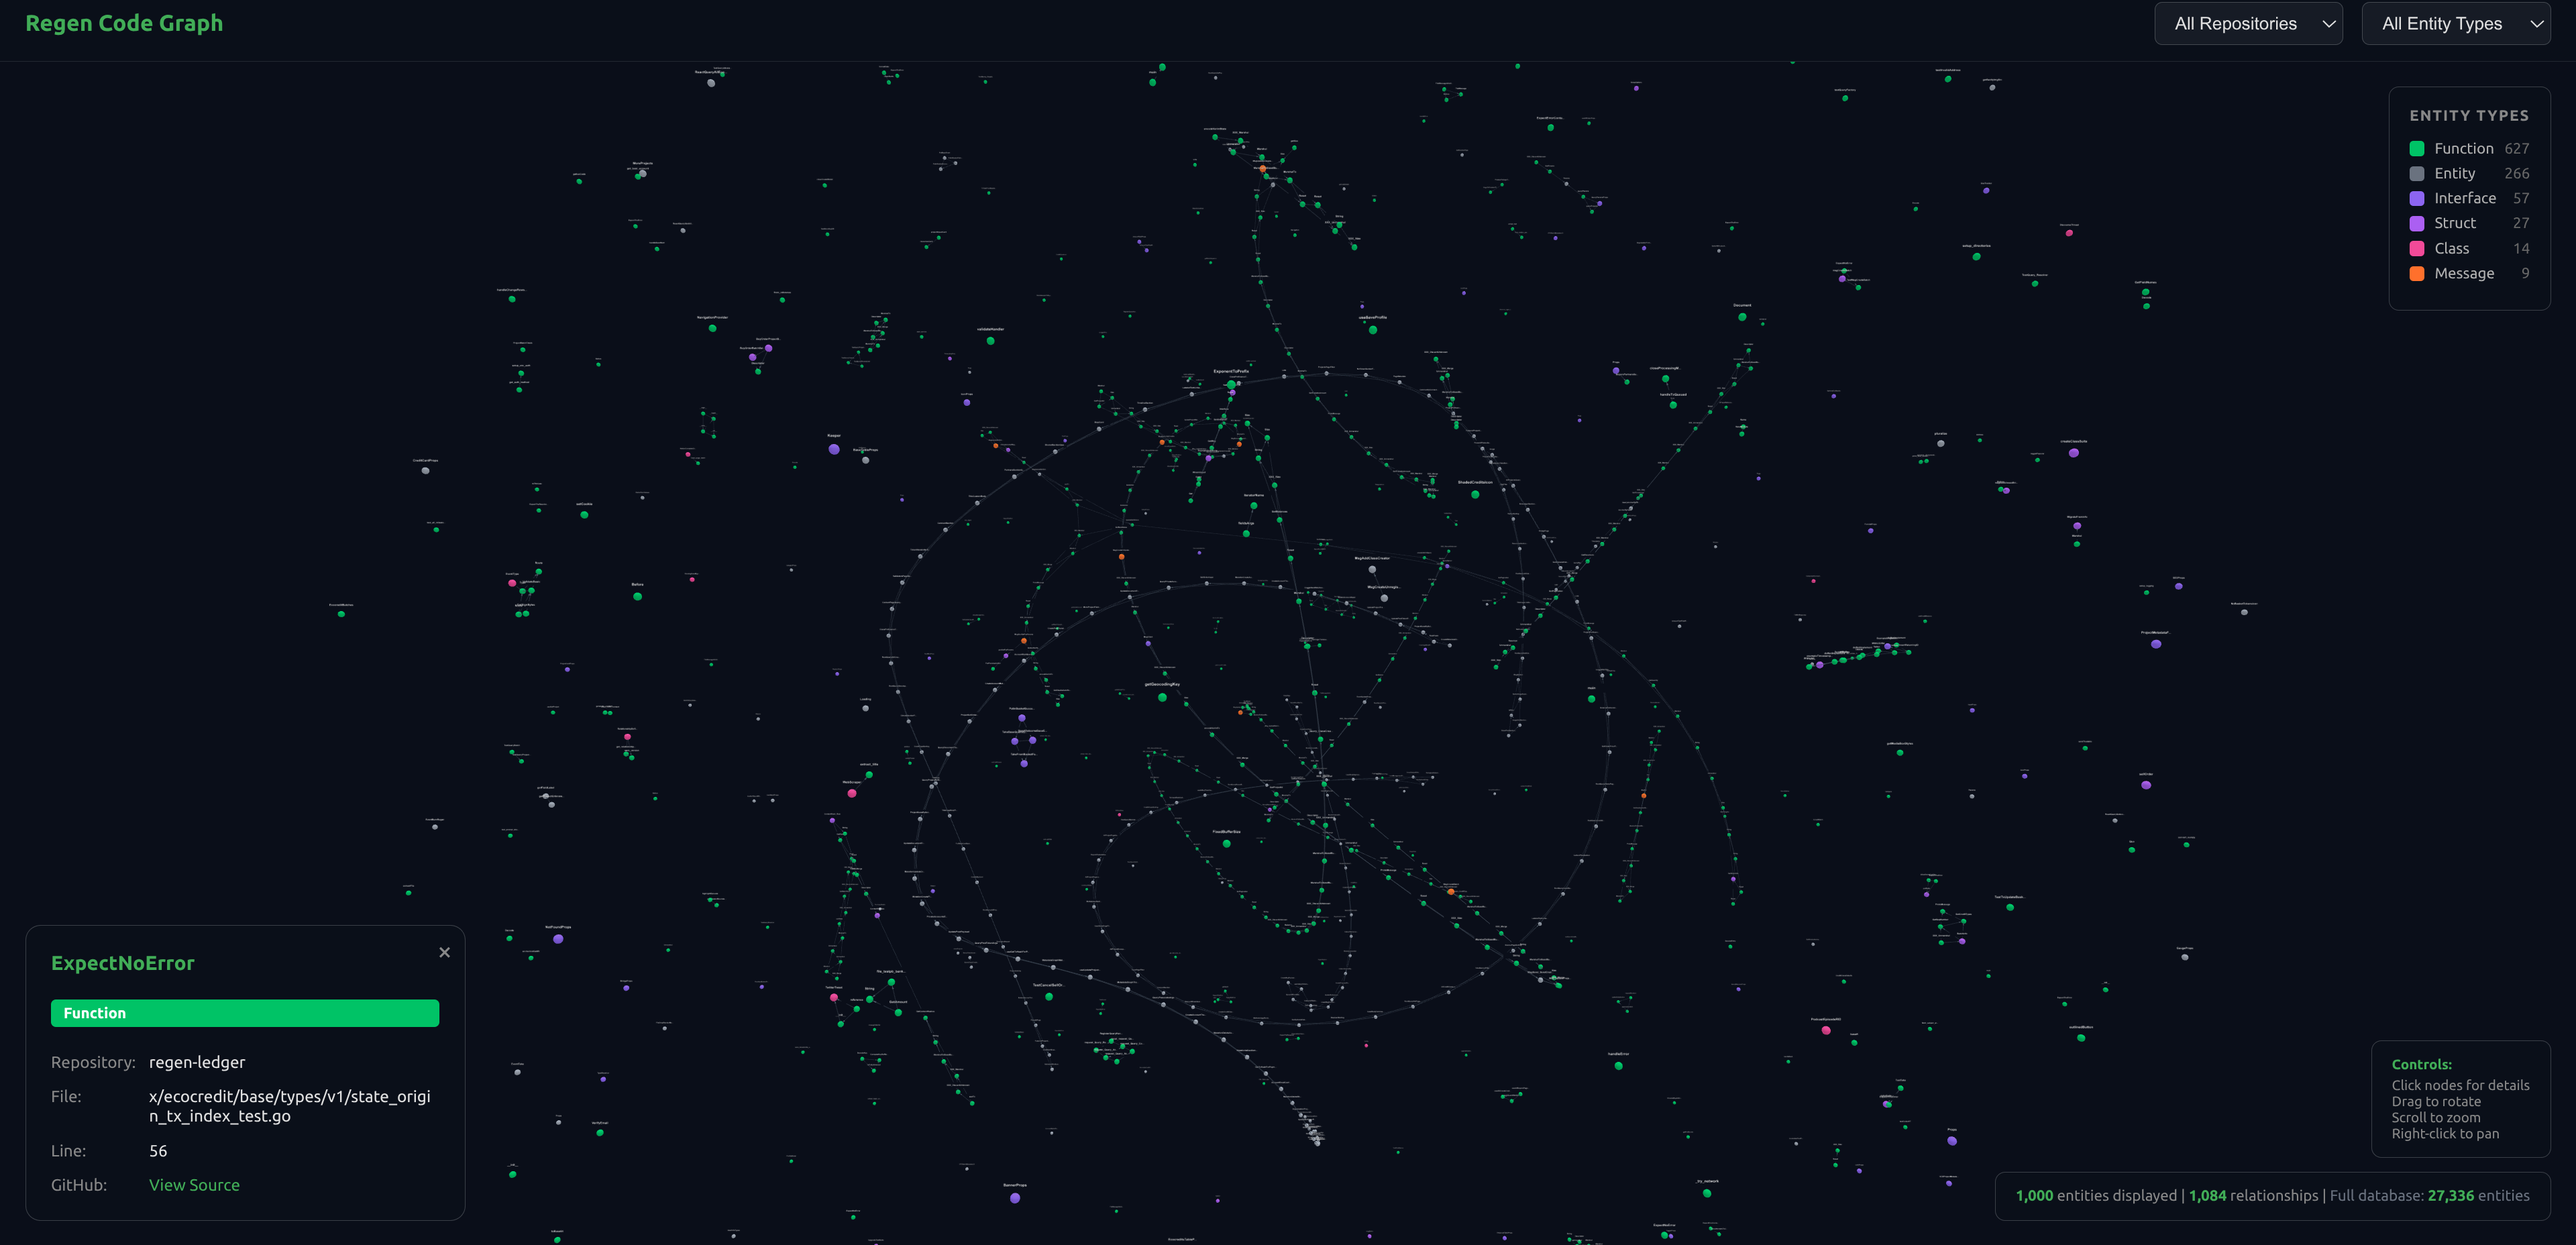
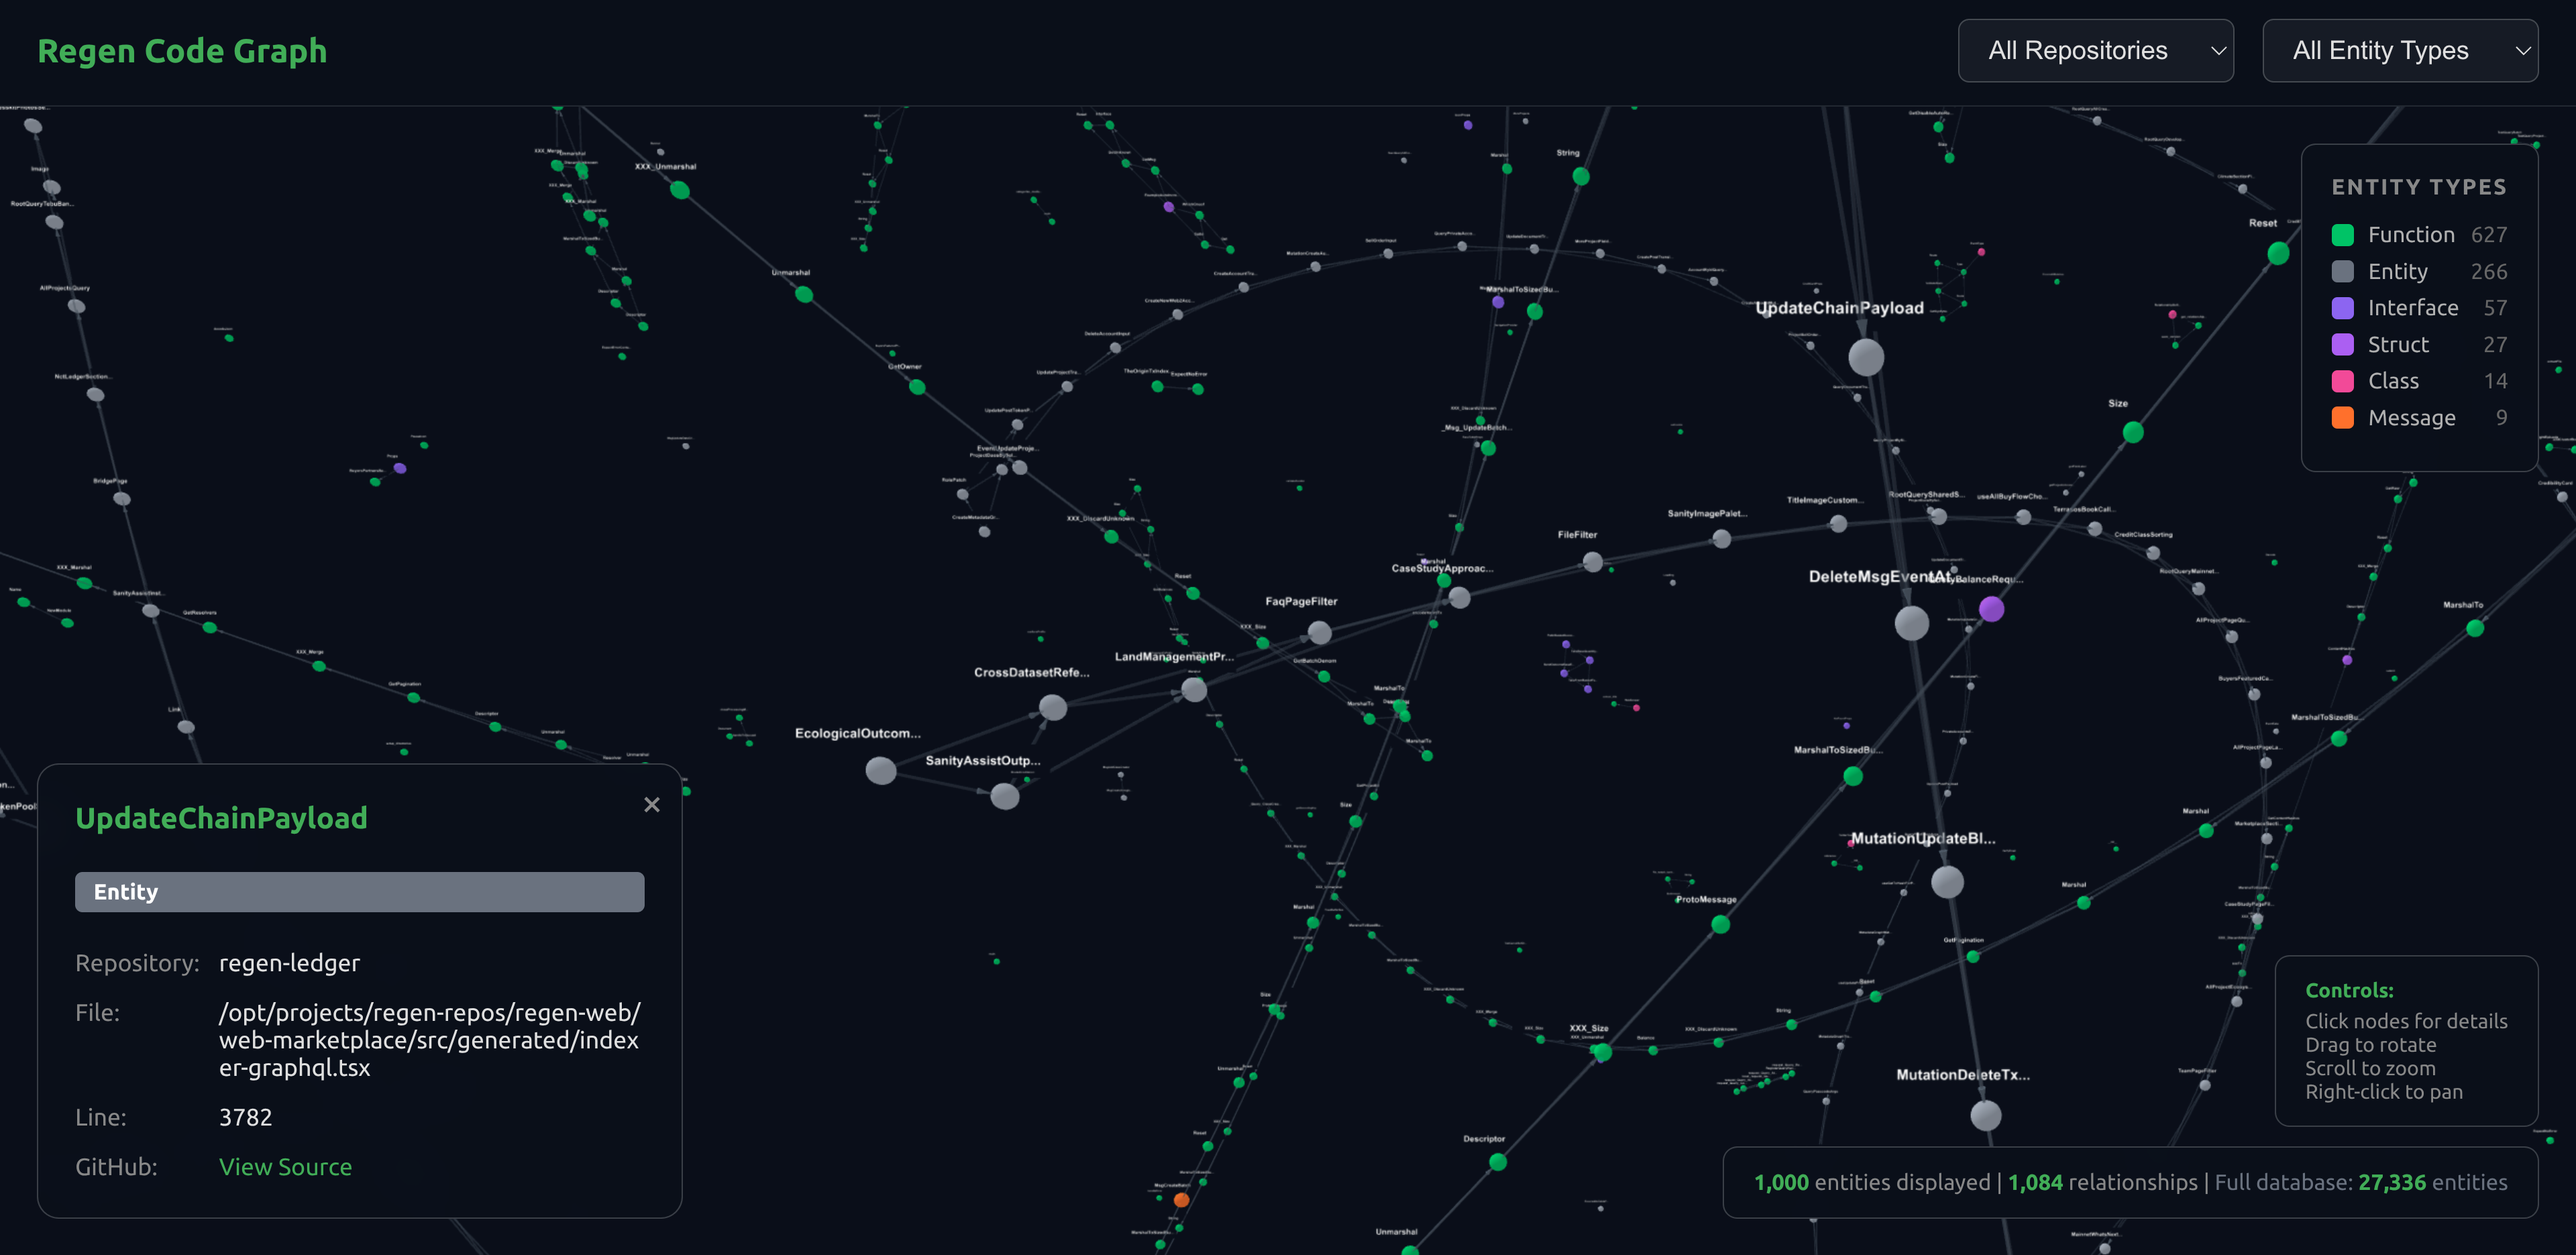
Update code graph section.

diff --git a/content/2025-11-25-koi-deep-dive.md b/content/2025-11-25-koi-deep-dive.md
@@ -496,6 +496,9 @@ Each response comes grounded in verified knowledge, with citations you can follo
 
 ### What's New: Full-Stack Regen Intelligence
 
+![Code Graph - Interactive Detail](../images/regen-koi-graph.png)
+*Exploring the code graph interactively. Clicking any entity reveals its type, repository, file location, and a link to view the source on GitHub. The legend shows entity type distribution: Functions, Entities, Interfaces, Structs, Classe, and Messages.*
+
 The KOI MCP has evolved beyond document search into a full-stack technical assistant. Five Regen repositories are now indexed with deep code understanding:
 
 - **regen-ledger** (18,619 entities) - The Cosmos SDK blockchain
@@ -511,23 +514,6 @@ The new code graph tools use tree-sitter AST parsing to extract Methods, Functio
 - *"Show me the tech stack for regen-ledger"*
 - *"Search for validator setup documentation across all repos"*
 
-![Code Graph Visualization](../images/PLACEHOLDER_CODE_GRAPH.png)
-*The code knowledge graph showing relationships between modules, keepers, messages, and functions across the Regen codebase. [IMAGE PLACEHOLDER - will be replaced]*## 
-
-
-
-We've only scratched the surface. The KOI MCP currently emphasizes semantic search—finding documents by meaning. But the Apache Jena knowledge graph holds even greater potential.
-
-![Knowledge Graph Expansion](../images/PLACEHOLDER_GRAPH_FUTURE.png)
-*The evolving knowledge graph: from document search to relationship reasoning to predictive intelligence. [IMAGE PLACEHOLDER - will be replaced]*
-
-Soon, you'll be able to ask questions that traverse relationships:
-
-- *"Which projects use methodologies developed by Regen Foundation?"*
-- *"What credit classes have seen the most issuance growth this year?"*
-- *"Show me the governance history of parameter X"*
-
-The graph doesn't just store facts—it stores *structure*. And structure enables reasoning that flat search cannot.
 
 
 ---
@@ -538,26 +524,17 @@ The technical architecture is impressive, but the deeper significance lies in wh
 
 ### Knowledge as Commons
 
-Just as the Regen Registry creates a commons for ecological assets, KOI creates a commons for knowledge. The protocol is open. The data is accessible. Anyone can run a KOI node, contribute knowledge, or build new applications on the infrastructure.
-
-This isn't knowledge *extraction*—it's knowledge *cultivation*. Every sensor that monitors a forum, every embedding that captures meaning, every graph edge that connects concepts, adds to a shared resource that benefits everyone in the ecosystem.
+Just as the Regen Registry creates a commons for ecological assets, KOI creates a commons for knowledge. The protocol is open. The data is accessible. Anyone can run a KOI node, contribute knowledge, or build new applications on the infrastructure. Every sensor that monitors a forum, every embedding that captures meaning, every graph edge that connects concepts, adds to a shared resource that benefits everyone in the ecosystem.
 
 ### Collective Intelligence at Scale
 
-Human communities have always organized knowledge—through stories, libraries, institutions. KOI represents a new form: **machine-augmented collective intelligence**.
-
-![Collective Intelligence Flow](../images/PLACEHOLDER_COLLECTIVE_INTELLIGENCE.png)
-*How individual contributions flow through the KOI network to become collective wisdom. [IMAGE PLACEHOLDER - will be replaced]*
-
-The AI doesn't replace human knowledge-makers. It amplifies them. A thoughtful forum post by a community member becomes discoverable by anyone, anywhere, at any time. A governance decision becomes contextualized within the full history of prior decisions. A methodology improvement becomes linked to all the projects it might benefit.
+Human communities have always organized knowledge—through stories, libraries, institutions. KOI represents a new form: **machine-augmented collective intelligence**. A thoughtful forum post by a community member becomes discoverable by anyone, anywhere, at any time. A governance decision becomes contextualized within the full history of prior decisions. A methodology improvement becomes linked to all the projects it might benefit.
 
 ### Regenerative Agency
 
-Here's the connection to our larger mission: **legible knowledge enables coordinated action**.
+Here's the connection to our larger mission: **legible knowledge enables coordinated action**...
 
-The Voice of Nature agent we introduced in Week 1? It draws on KOI to understand the state of ecological projects. The Registry Review agent? It searches KOI for methodology documentation and precedent. Every Regen AI agent inherits the collective intelligence of the network.
 
-This is how we scale regenerative agency beyond individual humans. Not by replacing human wisdom, but by making it accessible to intelligent systems that can apply it at planetary scale.
 
 ---
 
@@ -569,9 +546,7 @@ As we build this knowledge infrastructure together, we want your input:
 
 2. **What queries would you love to ask?** If you could ask the Regen knowledge brain anything, what would it be? These inform our development priorities.
 
-3. **How should we handle permissions?** Some knowledge is internal, some is community-only, some is public. How do we balance openness with appropriate access control?
-
-4. **Would you run a KOI node?** For those technically inclined, would you want to run sensors or processors as part of a distributed knowledge network?
+3. **Would you run a KOI node?** For those technically inclined, would you want to run sensors or processors as part of a distributed knowledge network?
 
 Share your thoughts in the comments below!
 
